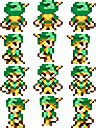
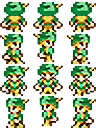
fewer particles

Changed region(s): [[0.3438, 0.0, 0.6562, 0.2812]]

diff --git a/src/components.js b/src/components.js
@@ -759,7 +759,7 @@ Crafty.c('Selectable', {
     this.requires('Particles');
 
     this.options = {
-        maxParticles: 10,
+        maxParticles: 1,
         size: 0,
         sizeRandom: 0,
         speed: 0,
@@ -767,9 +767,9 @@ Crafty.c('Selectable', {
         lifeSpan: 10,
         lifeSpanRandom: 7,
         angle: 0,
-        startColour: [255, 255, 0, 0.1],
+        startColour: [255, 255, 0, 0.5],
         startColourRandom: [48, 50, 45, 0],
-        endColour: [255, 100, 0, 0],
+        endColour: [255, 100, 0, 0.5],
         endColourRandom: [60, 60, 60, 0],
         sharpness: 20,
         sharpnessRandom: 10,
